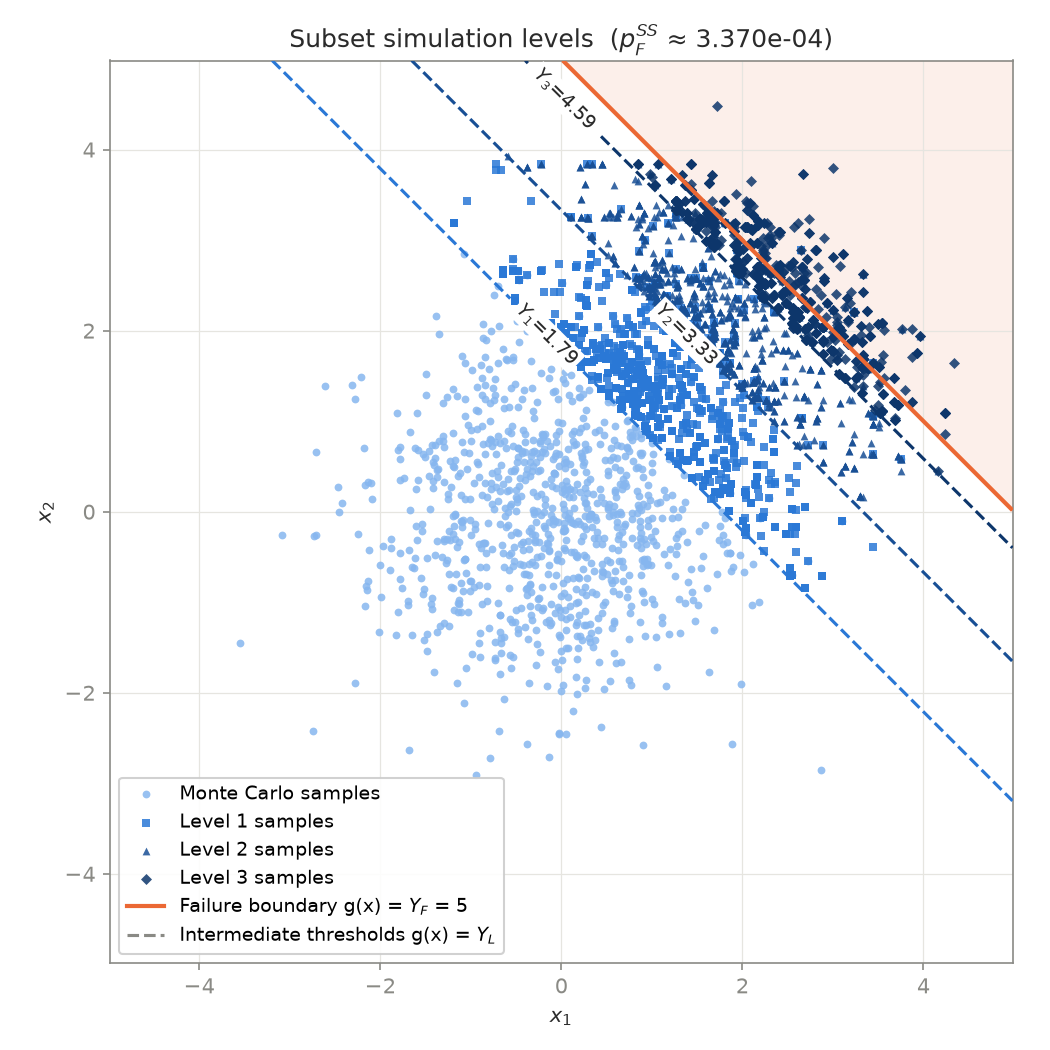
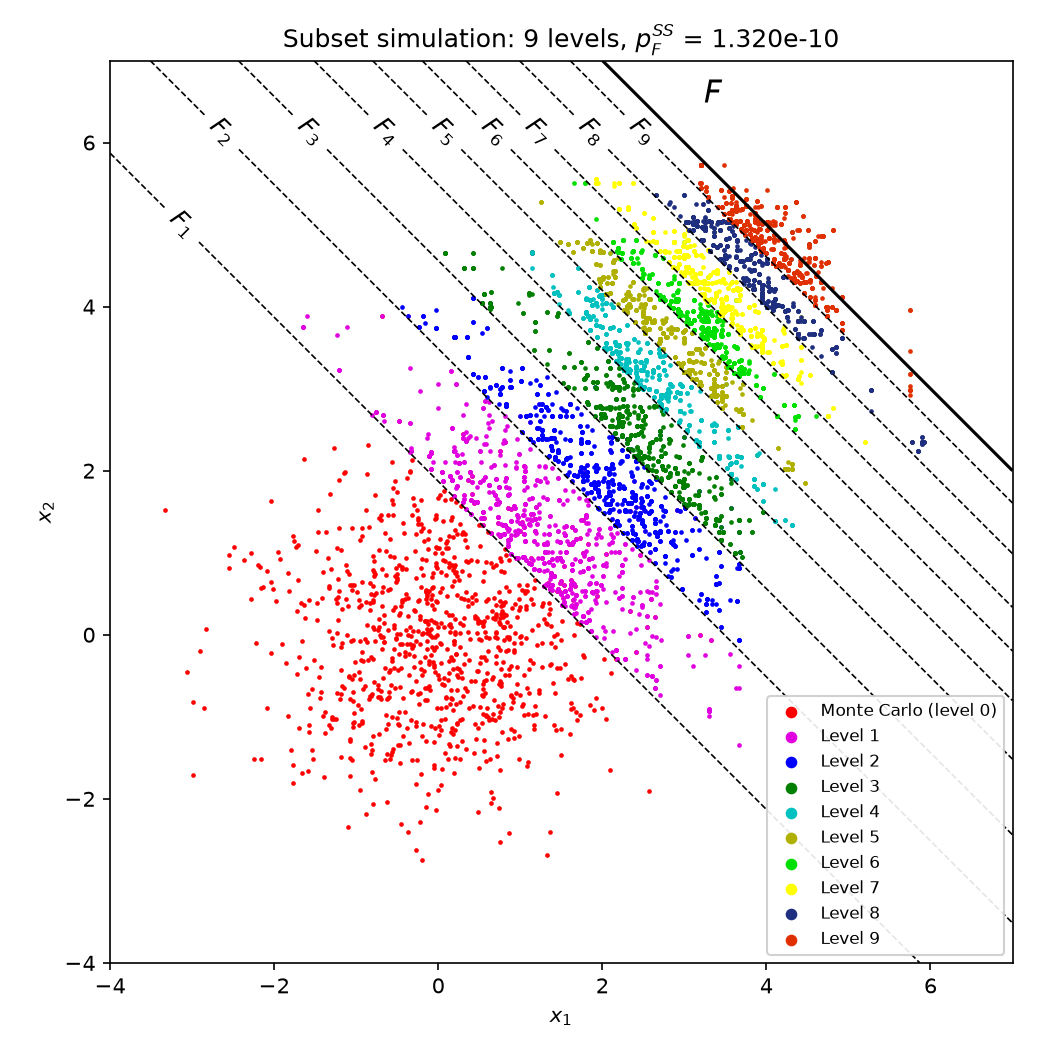
Restyle 2D level plot to match Figure 6
One spectrum colour per level, black dashed thresholds labelled F_1, F_2, ...
and a solid failure boundary labelled F. Default YF = 9 reproduces the
Figure 6 setting.

Claude-Session: https://claude.ai/code/session_01GsDwD8yRt9xvsj4uh9AYJF

diff --git a/subset_simulation/subset_simulation_loops.py b/subset_simulation/subset_simulation_loops.py
@@ -20,7 +20,7 @@ evaluation calls the same function, so to try a new model you only edit it
 in one place.
 
 HOW TO RUN: set the parameters just below, then run this file. The results
-are printed, and when d = 2 the level plot (cf. Figure 6) opens in a window.
+are printed, and when d = 2 the level plot (in the style of Figure 6) opens in a window.
 Works for any dimension d; the plot is only drawn for d = 2.
 """
 
@@ -35,7 +35,7 @@ SQRT_2PI = math.sqrt(2 * math.pi)
 # PARAMETERS -- edit these (original MATLAB values in brackets)
 # ===========================================================================
 d = 2          # dimension of the input space            [MATLAB: 1000]
-YF = 5.0       # critical threshold (failure <=> g(x) > YF) [MATLAB: 200]
+YF = 9.0       # critical threshold (failure <=> g(x) > YF) [MATLAB: 200]
 n = 1000       # number of samples per level             [MATLAB: 3000]
 p = 0.1        # level probability                       [MATLAB: 0.1]
 SEED = None    # random seed: an integer for repeatable results, None for random
@@ -133,72 +133,96 @@ def subset_simulation_loops(d, YF, n=3000, p=0.1, g=performance_function,
 
 
 # ---------------------------------------------------------------------------
-# 2D plot of the levels (cf. Figure 6)
+# 2D plot of the levels (in the style of Figure 6)
 # ---------------------------------------------------------------------------
+# One colour per level, in the same spectrum order as Figure 6:
+# red (Monte Carlo), magenta, blue, green, cyan, olive, lime, yellow, navy,
+# orange-red. If there are more levels than colours, the list starts again.
+LEVEL_COLOURS = ["#ff0000", "#e000e0", "#0000ff", "#007f00", "#00c0c0",
+                 "#b0b000", "#00e000", "#ffff00", "#1f2f7f", "#e03000"]
+
+
+def _point_nearest(cs, target, lo, hi):
+    """Point on the contour line(s) in `cs` closest to `target`, keeping
+    away from the plot edges (between lo and hi) where possible."""
+    pts = [seg for seg in cs.allsegs[0] if len(seg)]
+    if not pts:
+        return None                            # curve not visible in the plot
+    pts = np.vstack(pts)
+    inside = np.all((pts > lo) & (pts < hi), axis=1)
+    if inside.any():
+        pts = pts[inside]
+    return pts[np.argmin(np.sum((pts - target) ** 2, axis=1))]
+
+
 def plot_levels_2d(result, YF, g=performance_function, lim=None,
-                   filename=None):
-    """Scatter the samples of every level, with the intermediate thresholds
-    g(x) = Y_L as dashed lines and the failure boundary g(x) = YF."""
+                   filename=None, legend=True):
+    """Plot the samples of every level (one colour per level), the
+    intermediate thresholds g(x) = Y_L as dashed lines labelled F_1, F_2, ...
+    and the failure boundary g(x) = YF as a solid line labelled F."""
     import matplotlib.pyplot as plt
-    from matplotlib.colors import to_rgb
 
     x, Y = result["x"], result["Y"]
     if x[0].shape[0] != 2:
         raise ValueError("plot_levels_2d needs d = 2")
 
+    # Axis range: a whole-number square that contains every sample
     if lim is None:
-        lim = max(4.0, np.abs(np.hstack(x)).max() + 0.5)
+        allx = np.hstack(x)
+        lim = (np.floor(allx.min() - 0.2), np.ceil(allx.max() + 0.2))
 
-    # Ordered blue ramp for the levels (light = level 0, dark = deepest level)
-    ramp = ["#86b6ef", "#5598e7", "#2a78d6", "#256abf",
-            "#1c5cab", "#184f95", "#104281", "#0d366b"]
-    idx = np.linspace(0, len(ramp) - 1, len(x)).round().astype(int)
-    colours = [ramp[i] for i in idx]
-    fail_colour = "#eb6834"
-    ink, muted = "#2b2b2b", "#8a8a85"
-    markers = ["o", "s", "^", "D", "v", "P", "X", "*"]
-
-    t = np.linspace(-lim, lim, 300)
+    # Evaluate g on a grid so the threshold curves can be drawn as contours
+    t = np.linspace(lim[0], lim[1], 400)
     X1, X2 = np.meshgrid(t, t)
     G = g(np.vstack([X1.ravel(), X2.ravel()])).reshape(X1.shape)
 
     fig, ax = plt.subplots(figsize=(7, 7))
-    for L, (xL, c) in enumerate(zip(x, colours)):
-        label = "Monte Carlo samples" if L == 0 else f"Level {L} samples"
-        ax.scatter(xL[0], xL[1], s=14, color=c, alpha=0.85, linewidths=0,
-                   marker=markers[L % len(markers)], label=label, zorder=2 + L)
 
-    # Intermediate thresholds g(x) = Y_L
-    for L, (YL, c) in enumerate(zip(Y, colours[1:]), start=1):
-        cs = ax.contour(X1, X2, G, levels=[YL], colors=[c], linewidths=1.5,
-                        linestyles="--", zorder=20)
-        for txt in ax.clabel(cs, fmt={YL: f"$Y_{L}$={YL:.2f}"}, fontsize=9,
-                             colors=[ink]):
-            txt.set_bbox(dict(facecolor="white", edgecolor="none", pad=1.5))
-            txt.set_zorder(30)
+    # Samples: level 0 (Monte Carlo) first, then each conditional level
+    for L, xL in enumerate(x):
+        colour = LEVEL_COLOURS[L % len(LEVEL_COLOURS)]
+        label = "Monte Carlo (level 0)" if L == 0 else f"Level {L}"
+        ax.scatter(xL[0], xL[1], s=5, color=colour, linewidths=0,
+                   label=label, zorder=2)
 
-    # Failure domain g(x) > YF
-    ax.contour(X1, X2, G, levels=[YF], colors=[fail_colour], linewidths=2,
-               zorder=21)
-    ax.contourf(X1, X2, G, levels=[YF, G.max() + 1],
-                colors=[(*to_rgb(fail_colour), 0.10)], zorder=0)
-    ax.plot([], [], color=fail_colour, lw=2,
-            label=f"Failure boundary g(x) = $Y_F$ = {YF:g}")
-    ax.plot([], [], color=muted, lw=1.5, ls="--",
-            label="Intermediate thresholds g(x) = $Y_L$")
+    # Labels go at the top-left end of each curve, away from the samples
+    span = lim[1] - lim[0]
+    lo, hi = lim[0] + 0.08 * span, lim[1] - 0.08 * span   # label-safe area
+    corner = np.array([lo, hi])
 
-    ax.set_xlim(-lim, lim)
-    ax.set_ylim(-lim, lim)
+    # Intermediate thresholds: boundary of F_L = {x : g(x) > Y_L}
+    for L, YL in enumerate(Y, start=1):
+        cs = ax.contour(X1, X2, G, levels=[YL], colors="k", linewidths=0.8,
+                        linestyles="--", zorder=3)
+        pt = _point_nearest(cs, corner, lo, hi)
+        if pt is not None:
+            ax.clabel(cs, fmt={YL: f"$F_{{{L}}}$"}, fontsize=12, colors="k",
+                      manual=[pt])
+
+    # Failure domain F = {x : g(x) > YF}, labelled just inside the domain
+    cs = ax.contour(X1, X2, G, levels=[YF], colors="k", linewidths=1.5,
+                    zorder=3)
+    pt = _point_nearest(cs, corner, lo, hi)
+    if pt is not None:
+        h = 1e-4 * span                        # numerical gradient of g at pt
+        grad = np.array([
+            g(np.array([[pt[0] + h], [pt[1]]]))[0] - g(np.array([[pt[0] - h], [pt[1]]]))[0],
+            g(np.array([[pt[0]], [pt[1] + h]]))[0] - g(np.array([[pt[0]], [pt[1] - h]]))[0]])
+        if np.linalg.norm(grad) > 0:
+            # step from the boundary into F (direction of increasing g)
+            pos = np.clip(pt + 0.06 * span * grad / np.linalg.norm(grad),
+                          lim[0] + 0.03 * span, lim[1] - 0.03 * span)
+            ax.text(*pos, "$F$", fontsize=15, ha="center", va="center")
+
+    ax.set_xlim(lim)
+    ax.set_ylim(lim)
     ax.set_aspect("equal")
-    ax.set_xlabel("$x_1$", color=ink)
-    ax.set_ylabel("$x_2$", color=ink)
-    ax.set_title(f"Subset simulation levels  "
-                 f"($p_F^{{SS}}$ ≈ {result['pF_SS']:.3e})", color=ink)
-    ax.grid(color="#e6e5e0", lw=0.6, zorder=-1)
-    for s in ax.spines.values():
-        s.set_color(muted)
-    ax.tick_params(colors=muted)
-    ax.legend(loc="lower left", fontsize=9, framealpha=0.9)
+    ax.set_xlabel("$x_1$")
+    ax.set_ylabel("$x_2$")
+    ax.set_title(f"Subset simulation: {len(Y)} levels, "
+                 f"$p_F^{{SS}}$ = {result['pF_SS']:.3e}")
+    if legend:
+        ax.legend(loc="best", fontsize=8, markerscale=2.5, framealpha=0.9)
     fig.tight_layout()
 
     if filename:
@@ -206,7 +230,6 @@ def plot_levels_2d(result, YF, g=performance_function, lim=None,
         print(f"Saved plot to {filename}")
     plt.show()
     return fig, ax
-
 
 
 # ===========================================================================

diff --git a/subset_simulation/subset_simulation_vectorised.py b/subset_simulation/subset_simulation_vectorised.py
@@ -20,7 +20,7 @@ evaluation calls the same function, so to try a new model you only edit it
 in one place.
 
 HOW TO RUN: set the parameters just below, then run this file. The results
-are printed, and when d = 2 the level plot (cf. Figure 6) opens in a window.
+are printed, and when d = 2 the level plot (in the style of Figure 6) opens in a window.
 Works for any dimension d; the plot is only drawn for d = 2.
 """
 
@@ -31,7 +31,7 @@ from scipy.stats import norm
 # PARAMETERS -- edit these (original MATLAB values in brackets)
 # ===========================================================================
 d = 2          # dimension of the input space            [MATLAB: 1000]
-YF = 5.0       # critical threshold (failure <=> g(x) > YF) [MATLAB: 200]
+YF = 9.0       # critical threshold (failure <=> g(x) > YF) [MATLAB: 200]
 n = 1000       # number of samples per level             [MATLAB: 3000]
 p = 0.1        # level probability                       [MATLAB: 0.1]
 SEED = None    # random seed: an integer for repeatable results, None for random
@@ -124,72 +124,96 @@ def subset_simulation(d, YF, n=3000, p=0.1, g=performance_function, rng=None):
 
 
 # ---------------------------------------------------------------------------
-# 2D plot of the levels (cf. Figure 6)
+# 2D plot of the levels (in the style of Figure 6)
 # ---------------------------------------------------------------------------
+# One colour per level, in the same spectrum order as Figure 6:
+# red (Monte Carlo), magenta, blue, green, cyan, olive, lime, yellow, navy,
+# orange-red. If there are more levels than colours, the list starts again.
+LEVEL_COLOURS = ["#ff0000", "#e000e0", "#0000ff", "#007f00", "#00c0c0",
+                 "#b0b000", "#00e000", "#ffff00", "#1f2f7f", "#e03000"]
+
+
+def _point_nearest(cs, target, lo, hi):
+    """Point on the contour line(s) in `cs` closest to `target`, keeping
+    away from the plot edges (between lo and hi) where possible."""
+    pts = [seg for seg in cs.allsegs[0] if len(seg)]
+    if not pts:
+        return None                            # curve not visible in the plot
+    pts = np.vstack(pts)
+    inside = np.all((pts > lo) & (pts < hi), axis=1)
+    if inside.any():
+        pts = pts[inside]
+    return pts[np.argmin(np.sum((pts - target) ** 2, axis=1))]
+
+
 def plot_levels_2d(result, YF, g=performance_function, lim=None,
-                   filename=None):
-    """Scatter the samples of every level, with the intermediate thresholds
-    g(x) = Y_L as dashed lines and the failure boundary g(x) = YF."""
+                   filename=None, legend=True):
+    """Plot the samples of every level (one colour per level), the
+    intermediate thresholds g(x) = Y_L as dashed lines labelled F_1, F_2, ...
+    and the failure boundary g(x) = YF as a solid line labelled F."""
     import matplotlib.pyplot as plt
-    from matplotlib.colors import to_rgb
 
     x, Y = result["x"], result["Y"]
     if x[0].shape[0] != 2:
         raise ValueError("plot_levels_2d needs d = 2")
 
+    # Axis range: a whole-number square that contains every sample
     if lim is None:
-        lim = max(4.0, np.abs(np.hstack(x)).max() + 0.5)
+        allx = np.hstack(x)
+        lim = (np.floor(allx.min() - 0.2), np.ceil(allx.max() + 0.2))
 
-    # Ordered blue ramp for the levels (light = level 0, dark = deepest level)
-    ramp = ["#86b6ef", "#5598e7", "#2a78d6", "#256abf",
-            "#1c5cab", "#184f95", "#104281", "#0d366b"]
-    idx = np.linspace(0, len(ramp) - 1, len(x)).round().astype(int)
-    colours = [ramp[i] for i in idx]
-    fail_colour = "#eb6834"
-    ink, muted = "#2b2b2b", "#8a8a85"
-    markers = ["o", "s", "^", "D", "v", "P", "X", "*"]
-
-    t = np.linspace(-lim, lim, 300)
+    # Evaluate g on a grid so the threshold curves can be drawn as contours
+    t = np.linspace(lim[0], lim[1], 400)
     X1, X2 = np.meshgrid(t, t)
     G = g(np.vstack([X1.ravel(), X2.ravel()])).reshape(X1.shape)
 
     fig, ax = plt.subplots(figsize=(7, 7))
-    for L, (xL, c) in enumerate(zip(x, colours)):
-        label = "Monte Carlo samples" if L == 0 else f"Level {L} samples"
-        ax.scatter(xL[0], xL[1], s=14, color=c, alpha=0.85, linewidths=0,
-                   marker=markers[L % len(markers)], label=label, zorder=2 + L)
 
-    # Intermediate thresholds g(x) = Y_L
-    for L, (YL, c) in enumerate(zip(Y, colours[1:]), start=1):
-        cs = ax.contour(X1, X2, G, levels=[YL], colors=[c], linewidths=1.5,
-                        linestyles="--", zorder=20)
-        for txt in ax.clabel(cs, fmt={YL: f"$Y_{L}$={YL:.2f}"}, fontsize=9,
-                             colors=[ink]):
-            txt.set_bbox(dict(facecolor="white", edgecolor="none", pad=1.5))
-            txt.set_zorder(30)
+    # Samples: level 0 (Monte Carlo) first, then each conditional level
+    for L, xL in enumerate(x):
+        colour = LEVEL_COLOURS[L % len(LEVEL_COLOURS)]
+        label = "Monte Carlo (level 0)" if L == 0 else f"Level {L}"
+        ax.scatter(xL[0], xL[1], s=5, color=colour, linewidths=0,
+                   label=label, zorder=2)
 
-    # Failure domain g(x) > YF
-    ax.contour(X1, X2, G, levels=[YF], colors=[fail_colour], linewidths=2,
-               zorder=21)
-    ax.contourf(X1, X2, G, levels=[YF, G.max() + 1],
-                colors=[(*to_rgb(fail_colour), 0.10)], zorder=0)
-    ax.plot([], [], color=fail_colour, lw=2,
-            label=f"Failure boundary g(x) = $Y_F$ = {YF:g}")
-    ax.plot([], [], color=muted, lw=1.5, ls="--",
-            label="Intermediate thresholds g(x) = $Y_L$")
+    # Labels go at the top-left end of each curve, away from the samples
+    span = lim[1] - lim[0]
+    lo, hi = lim[0] + 0.08 * span, lim[1] - 0.08 * span   # label-safe area
+    corner = np.array([lo, hi])
 
-    ax.set_xlim(-lim, lim)
-    ax.set_ylim(-lim, lim)
+    # Intermediate thresholds: boundary of F_L = {x : g(x) > Y_L}
+    for L, YL in enumerate(Y, start=1):
+        cs = ax.contour(X1, X2, G, levels=[YL], colors="k", linewidths=0.8,
+                        linestyles="--", zorder=3)
+        pt = _point_nearest(cs, corner, lo, hi)
+        if pt is not None:
+            ax.clabel(cs, fmt={YL: f"$F_{{{L}}}$"}, fontsize=12, colors="k",
+                      manual=[pt])
+
+    # Failure domain F = {x : g(x) > YF}, labelled just inside the domain
+    cs = ax.contour(X1, X2, G, levels=[YF], colors="k", linewidths=1.5,
+                    zorder=3)
+    pt = _point_nearest(cs, corner, lo, hi)
+    if pt is not None:
+        h = 1e-4 * span                        # numerical gradient of g at pt
+        grad = np.array([
+            g(np.array([[pt[0] + h], [pt[1]]]))[0] - g(np.array([[pt[0] - h], [pt[1]]]))[0],
+            g(np.array([[pt[0]], [pt[1] + h]]))[0] - g(np.array([[pt[0]], [pt[1] - h]]))[0]])
+        if np.linalg.norm(grad) > 0:
+            # step from the boundary into F (direction of increasing g)
+            pos = np.clip(pt + 0.06 * span * grad / np.linalg.norm(grad),
+                          lim[0] + 0.03 * span, lim[1] - 0.03 * span)
+            ax.text(*pos, "$F$", fontsize=15, ha="center", va="center")
+
+    ax.set_xlim(lim)
+    ax.set_ylim(lim)
     ax.set_aspect("equal")
-    ax.set_xlabel("$x_1$", color=ink)
-    ax.set_ylabel("$x_2$", color=ink)
-    ax.set_title(f"Subset simulation levels  "
-                 f"($p_F^{{SS}}$ ≈ {result['pF_SS']:.3e})", color=ink)
-    ax.grid(color="#e6e5e0", lw=0.6, zorder=-1)
-    for s in ax.spines.values():
-        s.set_color(muted)
-    ax.tick_params(colors=muted)
-    ax.legend(loc="lower left", fontsize=9, framealpha=0.9)
+    ax.set_xlabel("$x_1$")
+    ax.set_ylabel("$x_2$")
+    ax.set_title(f"Subset simulation: {len(Y)} levels, "
+                 f"$p_F^{{SS}}$ = {result['pF_SS']:.3e}")
+    if legend:
+        ax.legend(loc="best", fontsize=8, markerscale=2.5, framealpha=0.9)
     fig.tight_layout()
 
     if filename:
@@ -197,7 +221,6 @@ def plot_levels_2d(result, YF, g=performance_function, lim=None,
         print(f"Saved plot to {filename}")
     plt.show()
     return fig, ax
-
 
 
 # ===========================================================================
